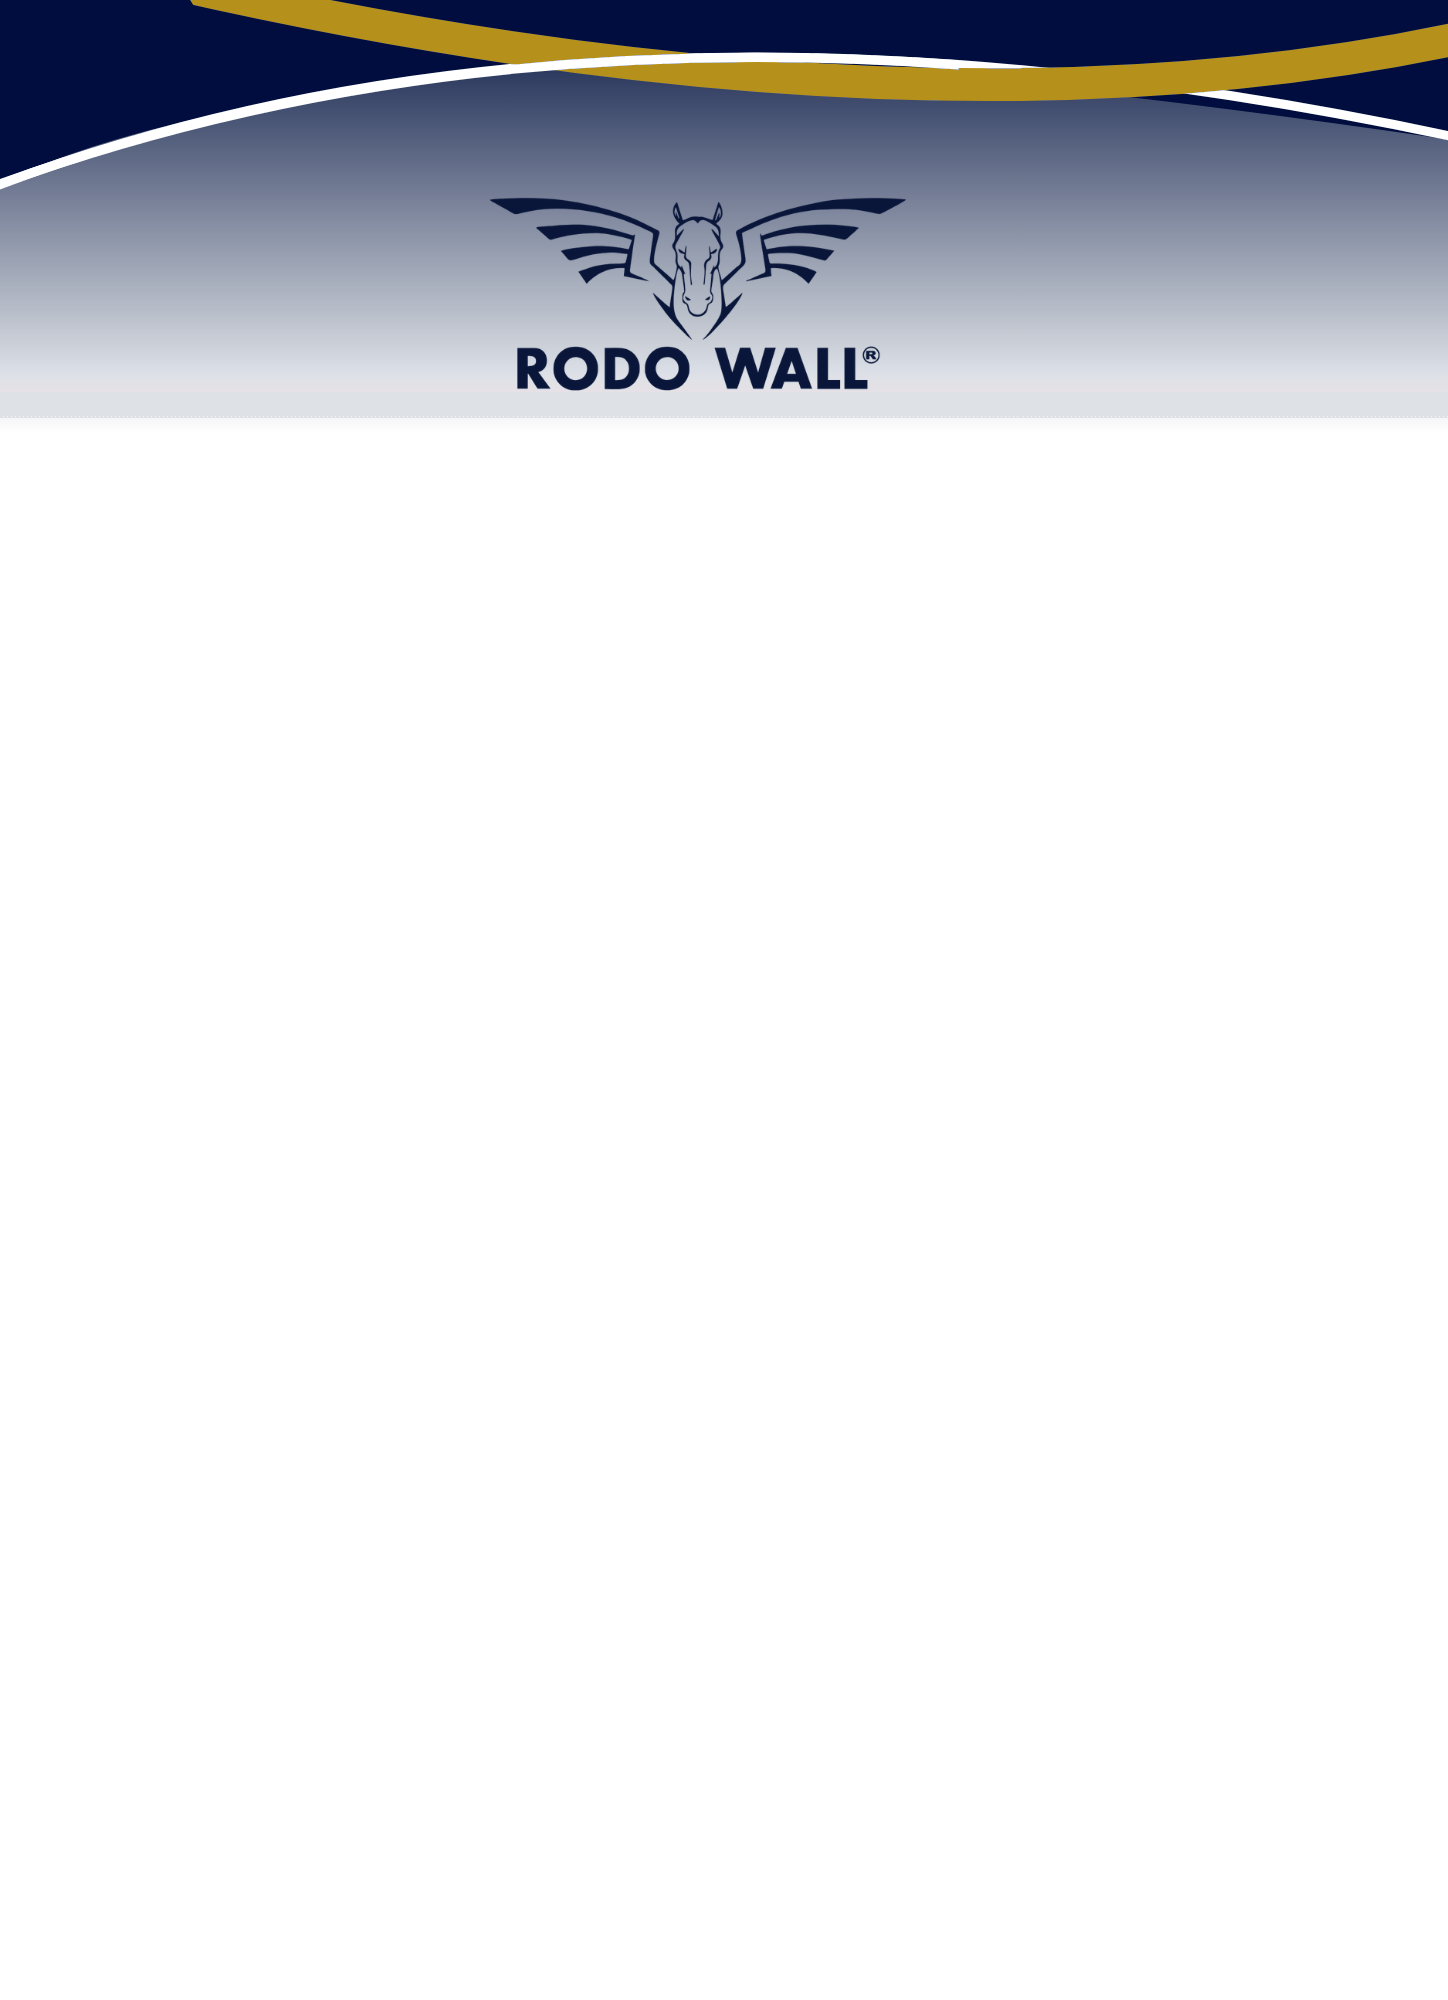
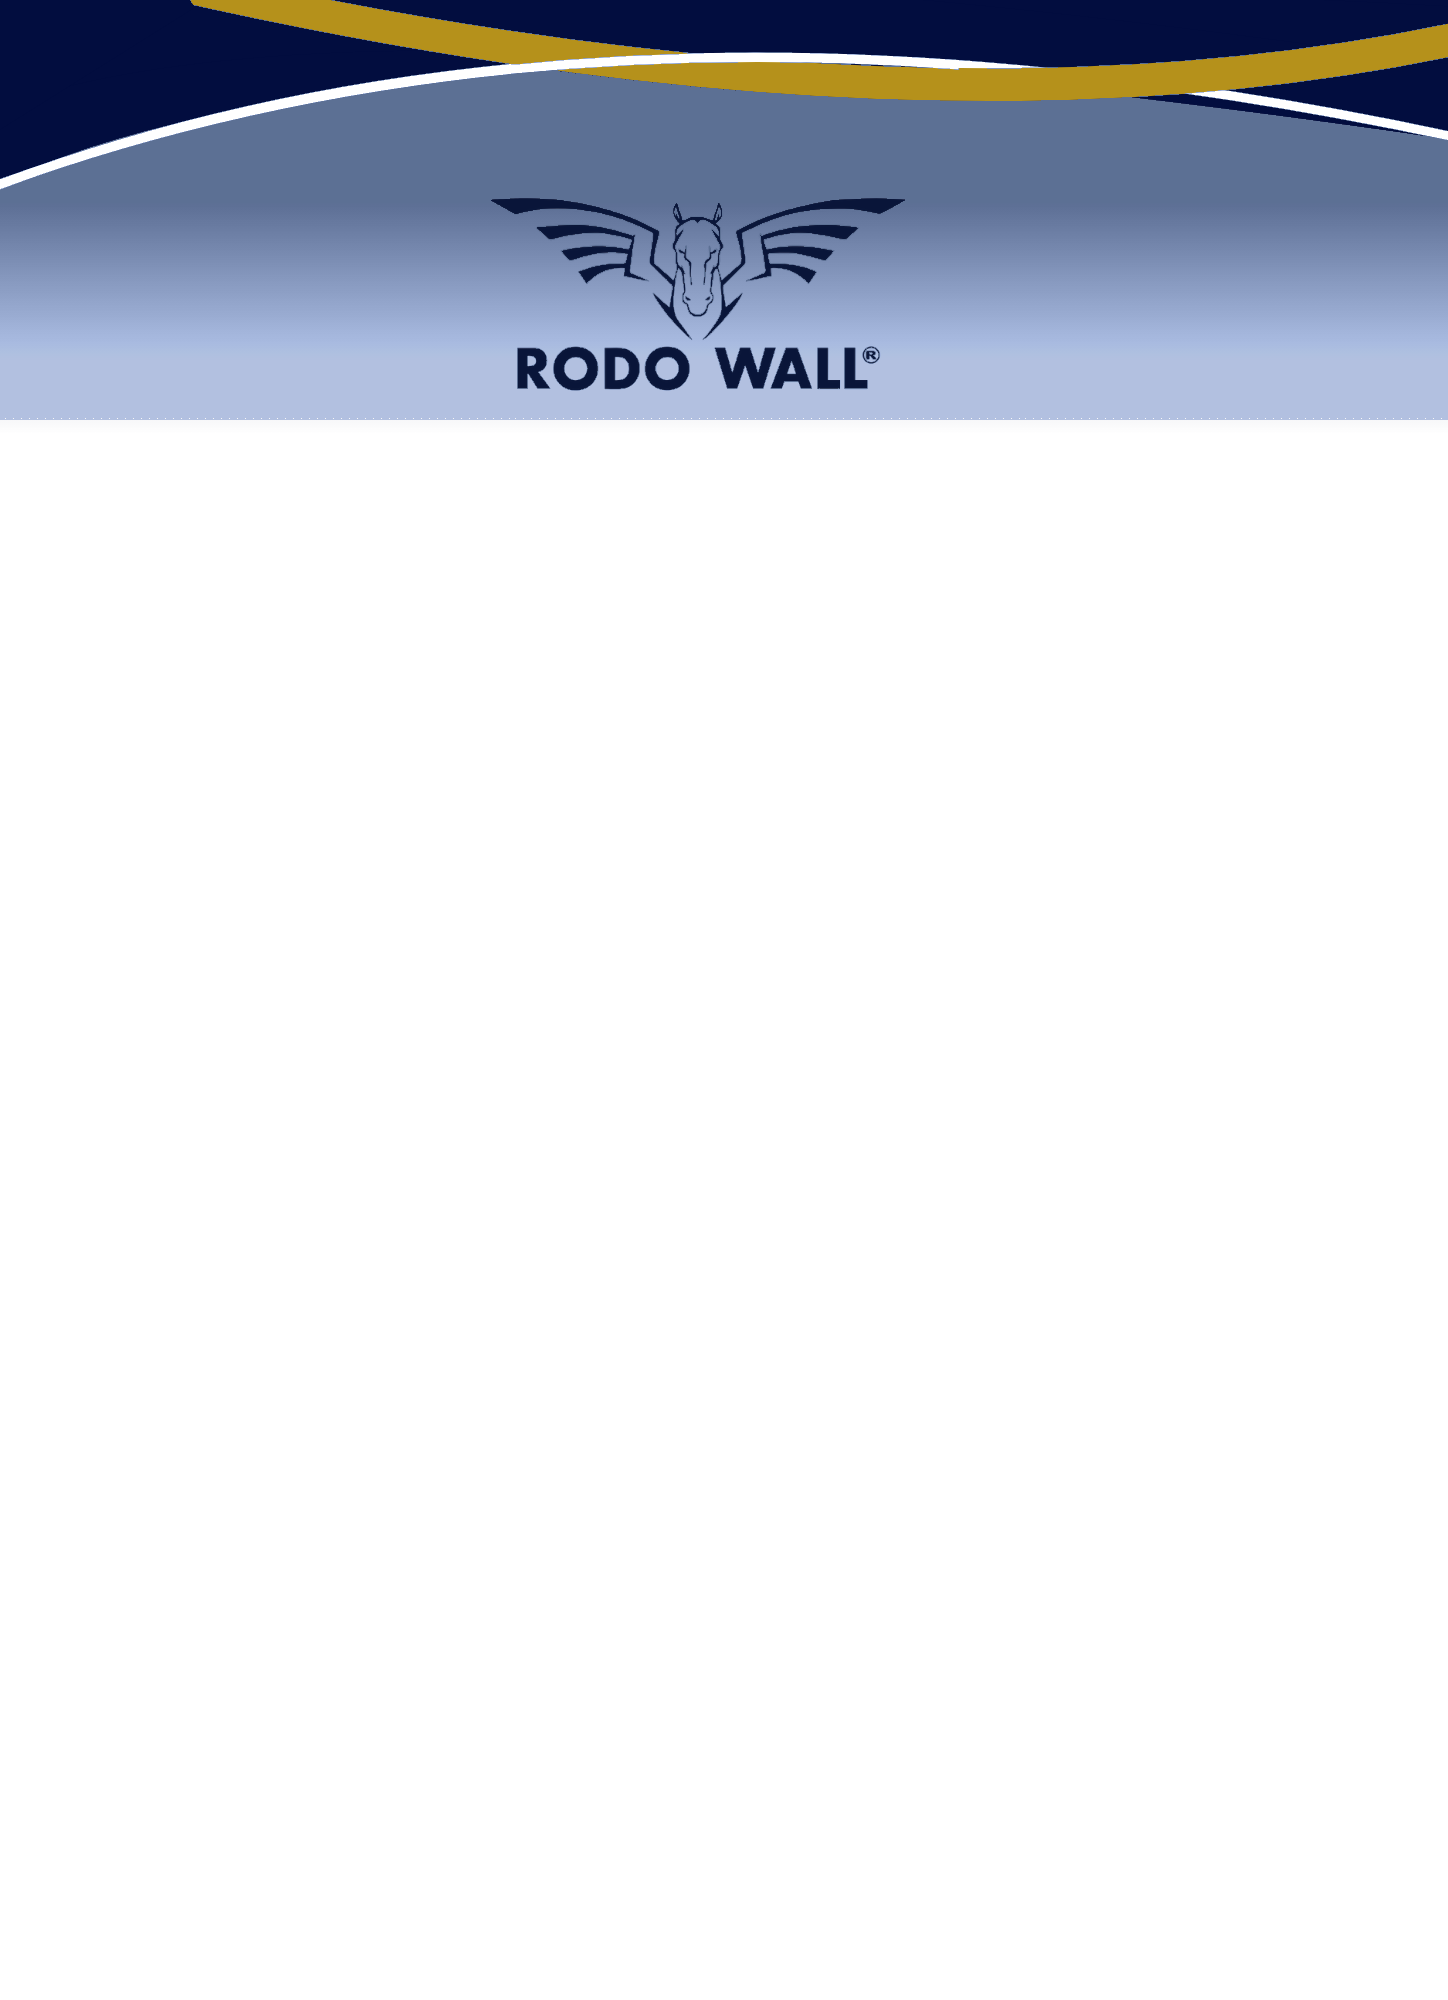
Remove estado e reforca fundo azul do PDF

Changed region(s): [[0.0, 0.031, 1.0, 0.217]]

diff --git a/src/modules/estadias/page.py b/src/modules/estadias/page.py
@@ -2013,14 +2013,15 @@ def render_cross_page(usuario: str) -> None:
                 .tolist()
             )
             multiple_pdfs = len(pdf_selected) > 1
+            download_stamp = re.sub(r"\D+", "", brasilia_now_iso())[:14] or "atual"
             if multiple_pdfs:
                 download_bytes = _tracker_positions_pdf_zip(pdf_base, pdf_selected)
-                download_name = "relatorios_posicoes_rastreador.zip"
+                download_name = f"relatorios_posicoes_rastreador_{download_stamp}.zip"
                 mime_type = "application/zip"
                 button_label = "Baixar PDFs selecionados"
             else:
                 download_bytes = _tracker_positions_pdf(pdf_base, pdf_selected) if pdf_selected else b""
-                download_name = "relatorio_posicoes_rastreador.pdf"
+                download_name = f"relatorio_posicoes_rastreador_{download_stamp}.pdf"
                 mime_type = "application/pdf"
                 button_label = "Baixar PDF selecionado"
             st.download_button(
